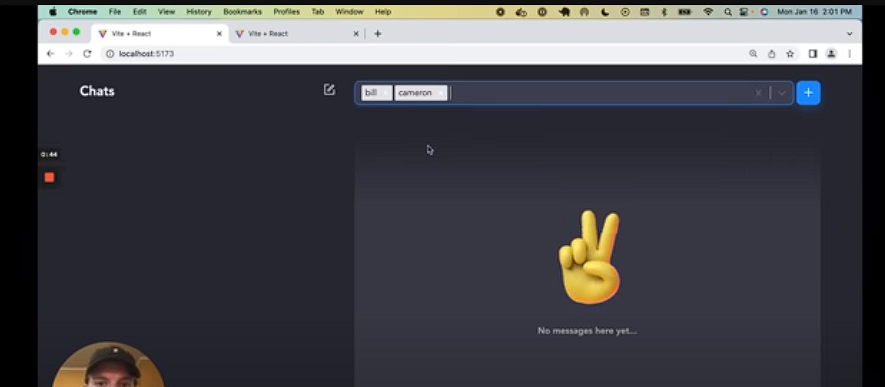
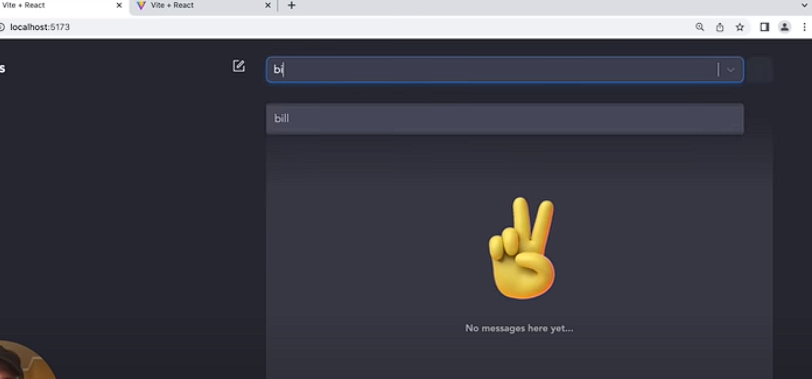
users list search working flow

diff --git a/client/src/components/NewChatForm.tsx b/client/src/components/NewChatForm.tsx
@@ -2,20 +2,34 @@ import { useState } from "react";
 import { Form, Field } from "react-final-form";
 import { IoAddOutline, IoCloseSharp } from "react-icons/io5";
 import { MdKeyboardArrowDown, MdKeyboardArrowUp } from "react-icons/md";
+import { useSelector } from "react-redux";
+import { RootState } from "../store";
 import NewChatUsersList from "./NewChatUsersList";
 
-type FormValues = {
-    name?: string;
+export type FormValues = {
+    username: string;
 };
 
 const NewChatForm = () => {
     const [users, setUsers] = useState<any[]>([]);
     const [isOpenList, setIsOpenList] = useState<boolean>(false);
+    const data = useSelector((state: RootState) => state.users.matchedData);
 
-    const handleSubmit = (values: FormValues) => {
-        if (values.name) {
-            setUsers((curr) => [...curr, values.name]);
+    if (!data) {
+        return <div>Loading...</div>;
+    }
+
+    const handleAddUser = (values: FormValues) => {
+        const userExists = users.some((user) => user === values.username);
+
+        if (values.username && !userExists) {
+            setUsers((curr) => [...curr, values.username]);
+            setIsOpenList(false);
         }
+    };
+
+    const handleSubmit = () => {
+        console.log(users);
     };
 
     const handleRemoveUser = (userIndex: number) => {
@@ -27,7 +41,15 @@ const NewChatForm = () => {
     };
 
     const handleOpenList = () => {
-        setIsOpenList(!isOpenList);
+        if (data.length > 0) setIsOpenList(!isOpenList);
+    };
+
+    const handleOpenListByValue = (value: string) => {
+        if (value.trim().length > 0) {
+            setIsOpenList(true);
+        } else {
+            setIsOpenList(false);
+        }
     };
 
     const renderedUsersTags = users.map((user, index) => {
@@ -52,60 +74,82 @@ const NewChatForm = () => {
         <div className="w-full h-full bg-gradient-to-b from-transparent to-login-input text-white rounded-md">
             <Form
                 onSubmit={handleSubmit}
-                render={({ handleSubmit, form, form: { getState } }) => (
-                    <form
-                        onSubmit={(event) => {
-                            handleSubmit(event);
-                            form.reset();
-                        }}
-                        className="flex flex-row justify-center items-center space-x-2 p-6 rounded-md"
-                    >
-                        <div className="flex flex-row justify-between p-2 border w-full border-gray-500 shadow-md rounded-md outline-none bg-transparent focus-within:border-blue-main focus-within:shadow-xl">
-                            <div className="flex flex-wrap justify-start w-full">
-                                <ul className="relative flex flex-wrap">
-                                    {renderedUsersTags}
-                                    {isOpenList && (
-                                        <NewChatUsersList
-                                            newUser={
-                                                getState().values.name || ""
+                render={({ handleSubmit, form }) => (
+                    <>
+                        <form
+                            onSubmit={(event) => {
+                                handleSubmit(event);
+                                form.reset();
+                            }}
+                            className="flex flex-row justify-center items-center space-x-2 p-6 rounded-md"
+                        >
+                            <div className="flex flex-row justify-between p-2 border w-full border-gray-500 shadow-md rounded-md outline-none bg-transparent focus-within:border-blue-main focus-within:shadow-xl">
+                                <div className="flex flex-wrap justify-start w-full">
+                                    <ul className="flex flex-wrap">
+                                        {renderedUsersTags}
+                                    </ul>
+                                    <Field
+                                        name="username"
+                                        component="input"
+                                        placeholder="Press enter to add user"
+                                        parse={(value: string) => {
+                                            handleOpenListByValue(value);
+                                            return value;
+                                        }}
+                                        onKeyDown={(
+                                            event: React.KeyboardEvent<HTMLInputElement>
+                                        ) => {
+                                            if (event.key === "Enter") {
+                                                event.preventDefault();
+
+                                                handleAddUser(data[0]);
+                                                form.reset();
                                             }
-                                        />
-                                    )}
-                                </ul>
-                                <Field
-                                    name="name"
-                                    component="input"
-                                    placeholder="Press enter to add user"
-                                    className="flex-1 p-1 px-2 bg-transparent outline-none"
-                                />
+                                        }}
+                                        className="flex-1 p-1 px-2 bg-transparent outline-none"
+                                    />
+                                </div>
+                                <div className="hidden flex-row items-center space-x-2 text-xl text-gray-400 sm:flex">
+                                    <button
+                                        type="button"
+                                        onClick={handleOpenList}
+                                        className="border-gray-400 border-r pr-2"
+                                    >
+                                        {isOpenList ? (
+                                            <MdKeyboardArrowUp />
+                                        ) : (
+                                            <MdKeyboardArrowDown />
+                                        )}
+                                    </button>
+                                    <button
+                                        type="button"
+                                        onClick={() => {
+                                            handleClearUsers();
+                                            form.reset();
+                                        }}
+                                    >
+                                        <IoCloseSharp />
+                                    </button>
+                                </div>
                             </div>
-                            <div className="hidden flex-row items-center space-x-2 text-xl text-gray-400 sm:flex">
-                                <button
-                                    type="button"
-                                    onClick={handleOpenList}
-                                    className="border-gray-400 border-r pr-2"
-                                >
-                                    {isOpenList ? (
-                                        <MdKeyboardArrowUp />
-                                    ) : (
-                                        <MdKeyboardArrowDown />
-                                    )}
-                                </button>
-                                <button
-                                    type="button"
-                                    onClick={() => {
-                                        handleClearUsers();
-                                        form.reset();
-                                    }}
-                                >
-                                    <IoCloseSharp />
-                                </button>
-                            </div>
-                        </div>
-                        <button className="flex items-center justify-center bg-blue-main rounded-md w-50px h-50px text-xl">
-                            <IoAddOutline />
-                        </button>
-                    </form>
+                            <button
+                                type="submit"
+                                className="flex items-center justify-center bg-blue-main rounded-md w-50px h-50px text-xl"
+                            >
+                                <IoAddOutline />
+                            </button>
+                        </form>
+                        {isOpenList && (
+                            <NewChatUsersList
+                                data={data}
+                                newUser={
+                                    form.getFieldState("username")?.value || ""
+                                }
+                                onSubmit={handleAddUser}
+                                clearInputFn={() => form.reset()}
+                            />
+                        )}
+                    </>
                 )}
             />
         </div>

diff --git a/client/src/components/NewChatUsersList.tsx b/client/src/components/NewChatUsersList.tsx
@@ -1,37 +1,57 @@
 import { useEffect } from "react";
-import { useDispatch } from "react-redux";
 import { useThunk } from "../hooks/use-thunk";
-import { fetchMatchedUsers, clearMatchedData, RootState } from "../store";
-import { useSelector } from "react-redux";
+import { fetchMatchedUsers, IUsers } from "../store";
+import { FormValues } from "./NewChatForm";
 
 type TUsersList = {
+    data: IUsers[];
     newUser: string;
+    onSubmit: (values: FormValues) => void;
+    clearInputFn: () => void;
 };
 
-const NewChatUsersList = ({ newUser }: TUsersList) => {
-    const dispatch = useDispatch();
+const NewChatUsersList = ({
+    data,
+    newUser,
+    onSubmit,
+    clearInputFn,
+}: TUsersList) => {
     const [doFetchMatchedUsers, isLoading] = useThunk(fetchMatchedUsers);
-    const data = useSelector((state: RootState) => state.users.matchedData);
+    const filteredUsersList = data.filter((user) => {
+        return (
+            user.username.toLowerCase().indexOf(newUser.toLowerCase()) !== -1
+        );
+    });
 
     useEffect(() => {
         if (!isLoading && newUser.trim().length > 0) {
             doFetchMatchedUsers(newUser.trim());
         }
-
-        if (newUser.trim().length <= 0) {
-            dispatch(clearMatchedData());
-        }
     }, [newUser]);
 
-    const renderedMatchedUsers = data?.map((user) => {
-        return <li>{user.username}</li>;
+    const renderedMatchedUsers = filteredUsersList?.map((user, index) => {
+        if (newUser.trim().length > 0) {
+            return (
+                <button
+                    onClick={() => {
+                        onSubmit(user);
+                        clearInputFn();
+                    }}
+                    key={index}
+                    className={`w-full text-left p-2 px-2 first ${
+                        index === 0 && "bg-login-input hover:opacity-90"
+                    } hover:bg-login-input`}
+                >
+                    {user.username}
+                </button>
+            );
+        }
+        return <></>;
     });
 
     return (
-        <div className="absolute -left-2 -bottom-24">
-            <ul className="text-black p-2 bg-gray-300 rounded">
-                {renderedMatchedUsers}
-            </ul>
+        <div className="mx-6 mr-20 text-gray-200 py-1 bg-login-bg rounded">
+            {renderedMatchedUsers}
         </div>
     );
 };

diff --git a/client/src/store/thunks/fetchMatchedUsers.ts b/client/src/store/thunks/fetchMatchedUsers.ts
@@ -1,14 +1,25 @@
 import { createAsyncThunk } from "@reduxjs/toolkit";
 import axios from "axios";
+import { RootState } from "..";
+
+let lastInput: string | null = null;
 
 export const fetchMatchedUsers = createAsyncThunk(
     "matched-users/fetch",
-    async (inputToMatch: string) => {
+    async (inputToMatch: string, { getState }) => {
+        const state = getState() as RootState;
+
+        if (inputToMatch === lastInput) {
+            return state.users.matchedData;
+        }
+
         const response = await axios.get("/api/users", {
             params: {
                 match: inputToMatch,
             },
         });
+
+        lastInput = inputToMatch;
 
         return response.data;
     }

diff --git a/client/src/components/ScrollBar.tsx b/client/src/components/ScrollBar.tsx
@@ -1,5 +1,6 @@
 import { useRef, useEffect } from "react";
 import { useLocation } from "react-router-dom";
+import { isMobile } from "react-device-detect";
 
 type TScrollBarProps = {
     children: React.ReactNode;
@@ -19,7 +20,9 @@ const ScrollBar = ({ children, className }: TScrollBarProps) => {
     return (
         <div
             ref={containerRef}
-            className={`overflow-y-hidden ${className} hover:overflow-y-auto`}
+            className={`overflow-y-hidden ${className} ${
+                isMobile ? "overflow-y-auto" : "hover:overflow-y-auto"
+            }`}
         >
             {children}
         </div>
